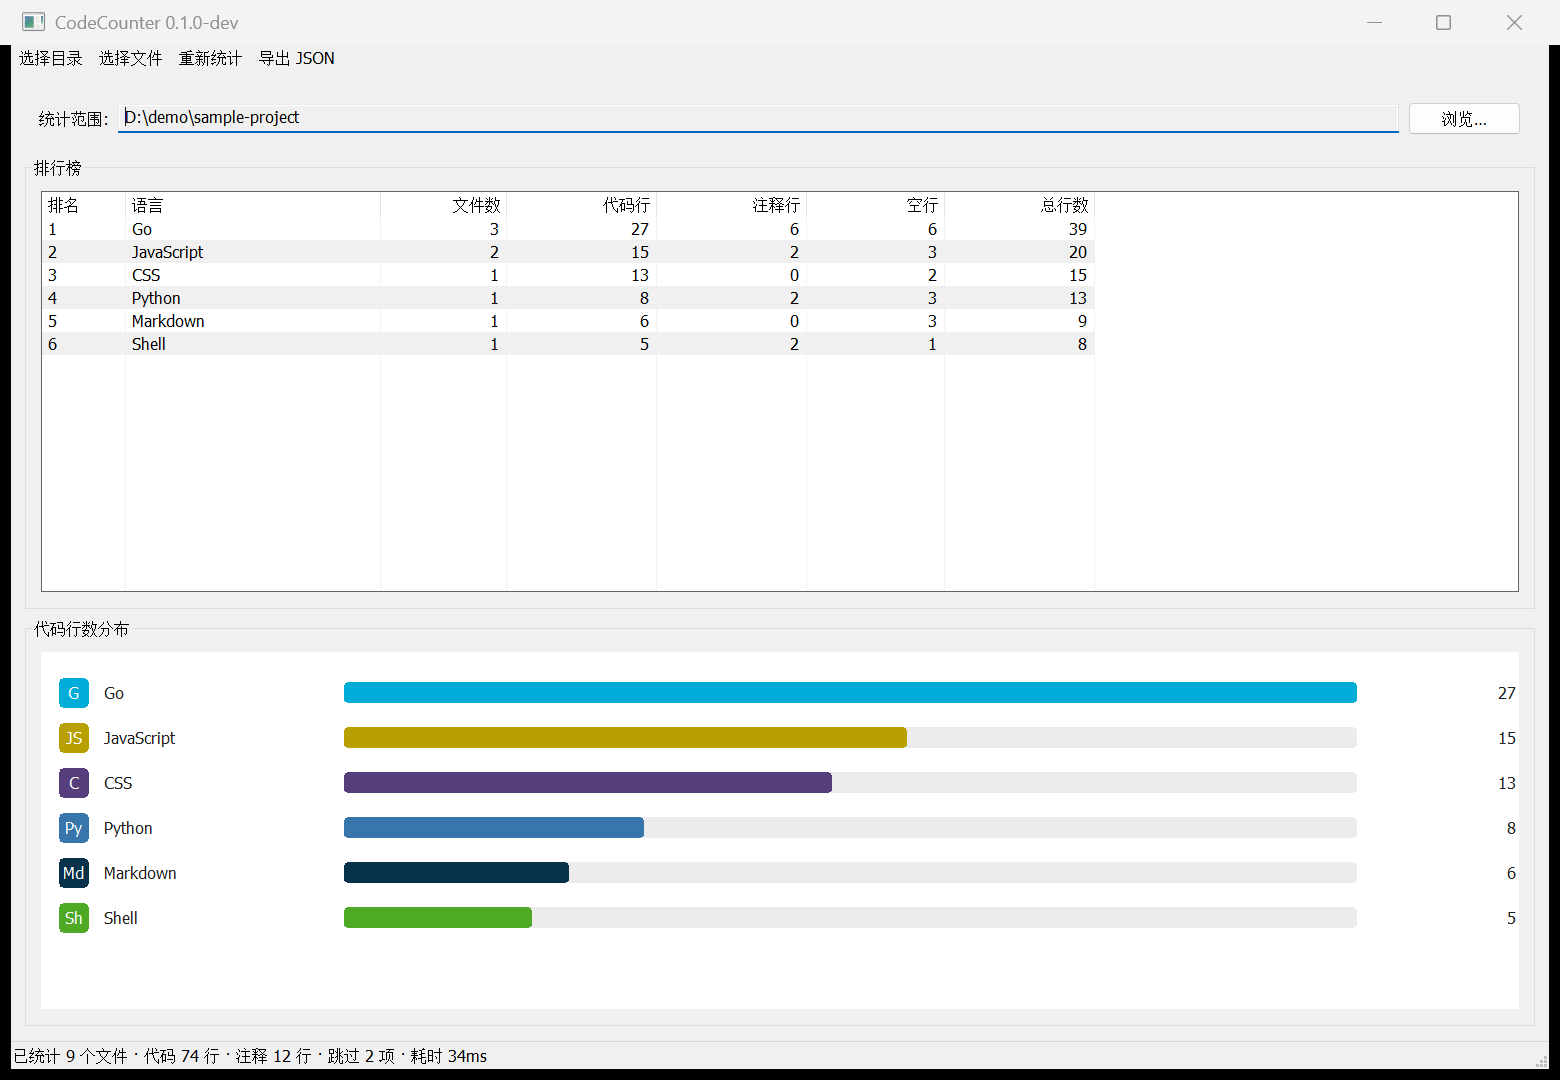
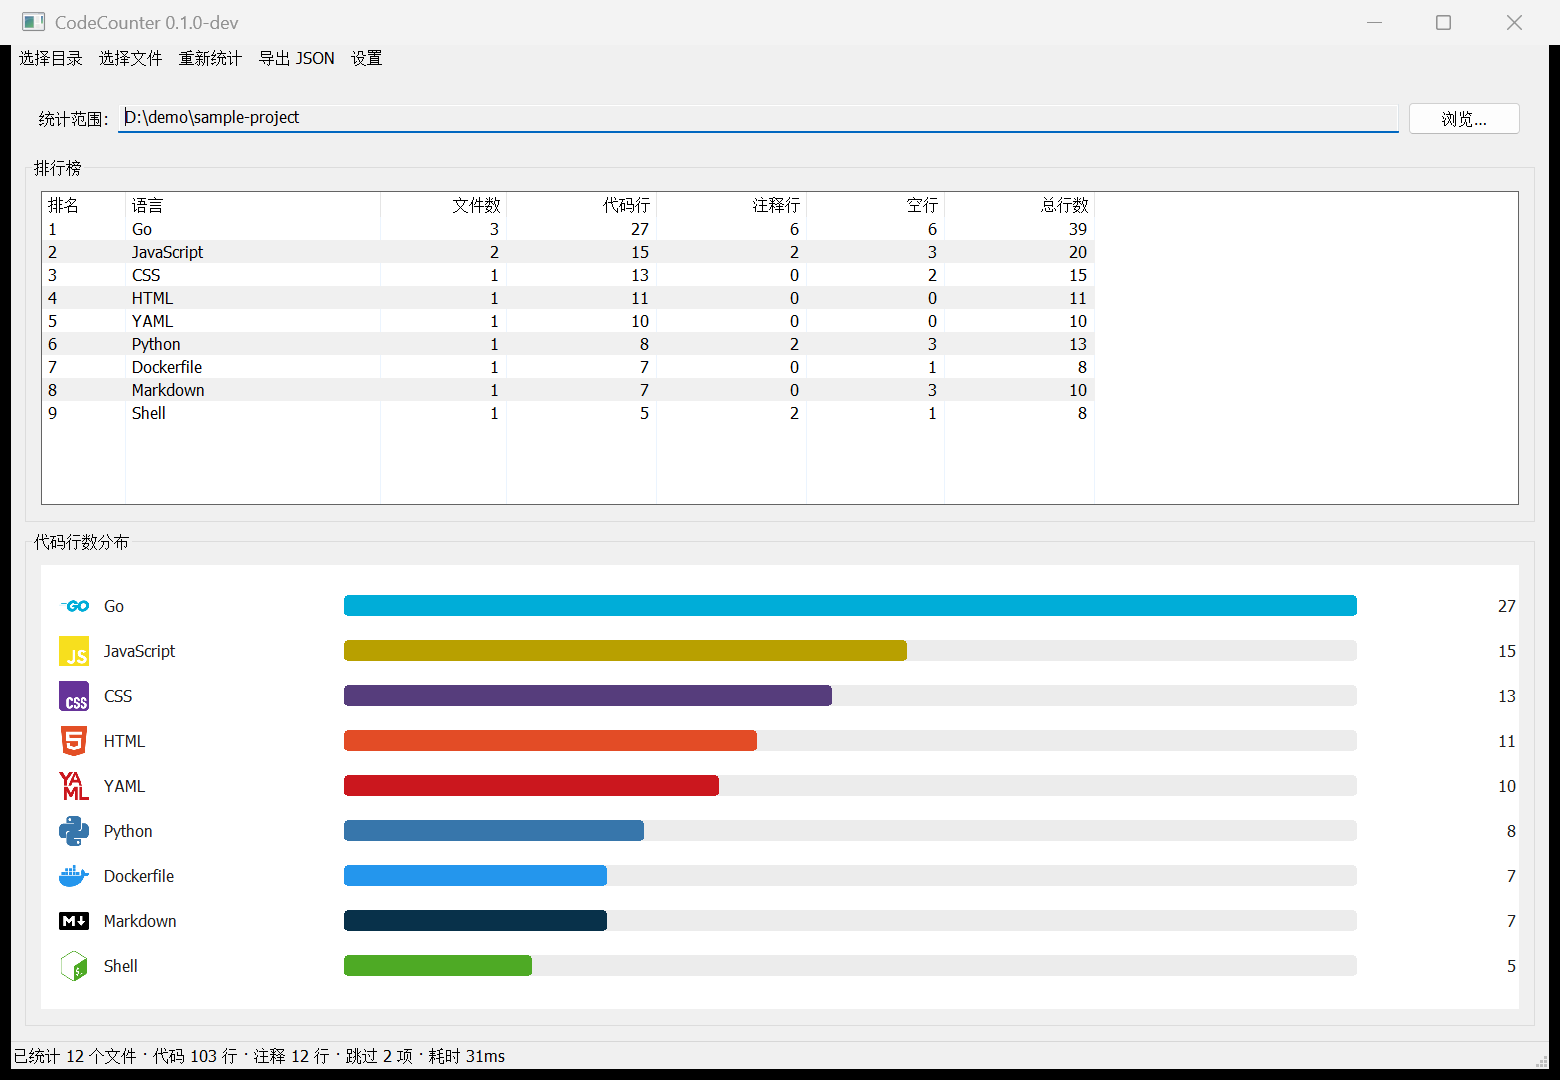
docs: 更新真实图标截图与说明
- README 更新界面截图，展示真实语言 logo（示例路径保持中性）
- README 说明语言图标已随仓库提交，以及重新生成方式与许可出处
- README 文档导航补充第三方资源说明
- CHANGELOG 更新语言图标条目

影响范围: README.md, CHANGELOG.md, docs/images
验证方式: 截图取自实际运行的 0.1.0-dev，示例项目位于中性路径

diff --git a/README.md b/README.md
@@ -14,7 +14,7 @@
 - 默认统计**启动时的工作目录**，可随时切换
 - 内置冗余目录与文件排除规则，并支持自定义 glob 规则与 `!` 取反
 - 可选择读取统计目录下的 `.gitignore`
-- 排行榜 + 横向条形图，按代码行数降序展示，并显示语言图标
+- 排行榜 + 横向条形图，按代码行数降序展示，并显示真实语言 logo
 - 统计结果可导出为 JSON
 - 无控制台窗口，支持高 DPI，无需任何运行时依赖
 - 附带命令行模式，便于在脚本或 CI 中使用
@@ -69,6 +69,9 @@ go build -ldflags "-H=windowsgui" -o codecounter.exe ./cmd/codecounter
 （通用控件 6.0 与高 DPI 感知）。它由图 `winres/app.manifest` 生成并
 纳入版本管理，修改清单后执行 `go generate ./cmd/codecounter` 重新生成。
 
+`internal/ui/assets/icons` 下的语言图标已随仓库提交，通常不需要重新生成。
+如需更新，执行 `make icons`（需要联网），图标来源与许可见 [NOTICE](NOTICE)。
+
 ## 命令行用法
 
 ```powershell
@@ -114,6 +117,7 @@ codecounter --version
 - [贡献指南](CONTRIBUTING.md)
 - [变更记录](CHANGELOG.md)
 - [安全策略](SECURITY.md)
+- [第三方资源说明](NOTICE)
 
 ## 许可证
 

diff --git a/CHANGELOG.md b/CHANGELOG.md
@@ -16,7 +16,8 @@
 - 目录遍历：支持单文件大小上限与上下文取消
 - 命令行模式：排行榜与横向条形图输出，支持 JSON 导出
 - Windows 原生图形界面：工具栏、统计范围栏、排行榜表格、条形图与状态栏
-- 语言图标：按语言品牌色绘制徽章，未收录语言使用稳定回退色
+- 语言图标：内置 32 种语言的真实 logo（取自 simple-icons），
+  未收录语言回退为按品牌色绘制的首字母徽章
 - 目录选择、文件多选与统计结果导出
 - Windows 应用清单：启用通用控件 6.0 与高 DPI 感知
 - 用户配置：保存到 `%APPDATA%\CodeCounter\config.json`，支持默认目录策略、
